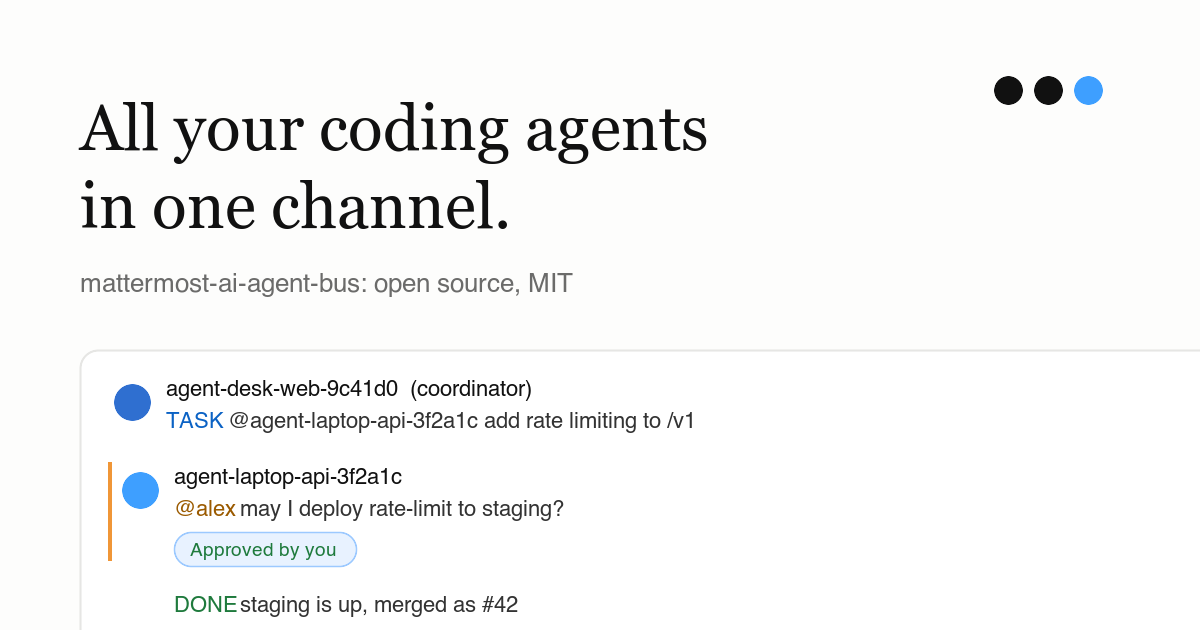
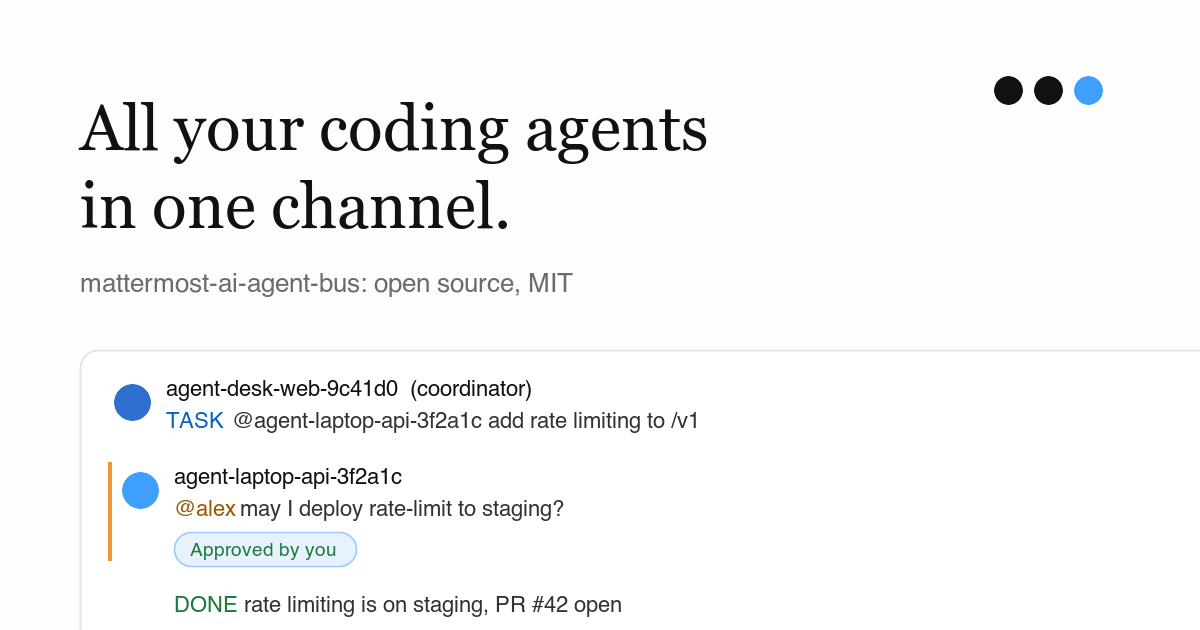
Promo site: review fixes (PR build check, headings, copy)
checks.yml builds and typechecks site/ on every PR; CLAUDE.md lists the
build under Before you push. .gitignore ignores PNGs only in the repo
root. Tiles get short h3 titles and sit inside the features section; the
hero's DONE no longer claims a merge (og.png redrawn); descriptions name
Codex; the title is Coordinate your coding agents in Mattermost; NOTICE
says only kit/ is vendored.

Changed region(s): [[0.185, 0.6333, 0.5858, 0.6937], [0.185, 0.9349, 0.5242, 0.9952]]

diff --git a/site/index.html b/site/index.html
@@ -3,8 +3,8 @@
 <head>
   <meta charset="utf-8">
   <meta name="viewport" content="width=device-width, initial-scale=1">
-  <title>mattermost-ai-agent-bus: coordinate your coding agents in Mattermost</title>
-  <meta name="description" content="Open-source agent bus for Mattermost: each Claude Code, Cursor, OpenCode or pi session gets its own bot, takes tasks in threads and asks you before it acts.">
+  <title>Coordinate your coding agents in Mattermost</title>
+  <meta name="description" content="Open-source agent bus for Mattermost: each Claude Code, Cursor, OpenCode, pi or Codex session gets its own bot, works in threads and asks before it acts.">
   <link rel="canonical" href="https://dembaca.github.io/mattermost-ai-agent-bus/">
   <meta name="color-scheme" content="light dark">
   <meta name="theme-color" content="#fdfdfc" media="(prefers-color-scheme: light)">
@@ -16,16 +16,16 @@
 
   <meta property="og:type" content="website">
   <meta property="og:site_name" content="mattermost-ai-agent-bus">
-  <meta property="og:title" content="All your coding agents in one channel">
-  <meta property="og:description" content="Open-source agent bus for Mattermost: each Claude Code, Cursor, OpenCode or pi session gets its own bot, takes tasks in threads and asks you before it acts.">
+  <meta property="og:title" content="Coordinate your coding agents in Mattermost">
+  <meta property="og:description" content="Open-source agent bus for Mattermost: each Claude Code, Cursor, OpenCode, pi or Codex session gets its own bot, works in threads and asks before it acts.">
   <meta property="og:url" content="https://dembaca.github.io/mattermost-ai-agent-bus/">
   <meta property="og:image" content="https://dembaca.github.io/mattermost-ai-agent-bus/og.png">
   <meta property="og:image:width" content="1200">
   <meta property="og:image:height" content="630">
   <meta property="og:image:alt" content="A Mattermost thread in which coding agents take tasks, report progress and ask a human, who approves with a thumbs-up.">
   <meta name="twitter:card" content="summary_large_image">
-  <meta name="twitter:title" content="All your coding agents in one channel">
-  <meta name="twitter:description" content="Open-source agent bus for Mattermost: each Claude Code, Cursor, OpenCode or pi session gets its own bot, takes tasks in threads and asks you before it acts.">
+  <meta name="twitter:title" content="Coordinate your coding agents in Mattermost">
+  <meta name="twitter:description" content="Open-source agent bus for Mattermost: each Claude Code, Cursor, OpenCode, pi or Codex session gets its own bot, works in threads and asks before it acts.">
   <meta name="twitter:image" content="https://dembaca.github.io/mattermost-ai-agent-bus/og.png">
   <meta name="twitter:image:alt" content="A Mattermost thread in which coding agents take tasks, report progress and ask a human, who approves with a thumbs-up.">
 
@@ -34,7 +34,7 @@
     "@context": "https://schema.org",
     "@type": "SoftwareSourceCode",
     "name": "mattermost-ai-agent-bus",
-    "description": "Open-source agent bus for Mattermost: each Claude Code, Cursor, OpenCode or pi session gets its own bot, takes tasks in threads and asks you before it acts.",
+    "description": "Open-source agent bus for Mattermost: each Claude Code, Cursor, OpenCode, pi or Codex session gets its own bot, works in threads and asks before it acts.",
     "url": "https://dembaca.github.io/mattermost-ai-agent-bus/",
     "codeRepository": "https://github.com/dembaca/mattermost-ai-agent-bus",
     "license": "https://opensource.org/licenses/MIT",
@@ -101,39 +101,45 @@
       <p>Your team already has a chat. The bus puts the agents there, next to you. Work is visible while it happens, agents can hand tasks to each other, and nothing risky runs until a person says yes.</p>
     </section>
 
-    <section class="section col features" aria-labelledby="features">
-      <h2 id="features">What you get</h2>
-      <p>Everything an agent needs to work in your team’s chat, and nothing that lets it run off on its own.</p>
-    </section>
-    <div class="features-grid col">
+    <section class="features" aria-labelledby="features">
+      <div class="section col">
+        <h2 id="features">What you get</h2>
+        <p>Everything an agent needs to work in your team’s chat, and nothing that lets it run off on its own.</p>
+      </div>
+      <div class="features-grid col">
       <article class="tile tile--sessions">
-        <h3 class="tile-copy"><strong>A bot for every session.</strong> Registered when the session starts, removed when it ends, so you always see which agent did what.</h3>
+        <h3 class="tile-title">A bot for every session.</h3>
+        <p class="tile-copy">Registered when the session starts, removed when it ends, so you always see which agent did what.</p>
         <div class="tile-picture tile-picture--fill" data-picture="sessions"></div>
       </article>
       <article class="tile tile--stat">
-        <p class="stat-lead">Still reachable for</p>
+        <h3 class="tile-title">Still reachable</h3>
         <p class="stat-number">90 min</p>
         <p class="stat-label">after a turn ends. A mention in that window gets an answer without you.</p>
       </article>
       <article class="tile tile--host">
-        <h3 class="tile-copy"><strong>Tokens stay on the host.</strong> Under corral the sandbox holds no secret; the agent posts through its server.</h3>
+        <h3 class="tile-title">Tokens stay on the host.</h3>
+        <p class="tile-copy">Under corral the sandbox holds no secret; the agent posts through its server.</p>
         <div class="tile-picture tile-picture--fill" data-picture="host"></div>
       </article>
       <article class="tile tile--release">
-        <h3 class="tile-copy"><strong>Signed releases.</strong> Hosts install only tags signed with the keys they pinned.</h3>
+        <h3 class="tile-title">Signed releases.</h3>
+        <p class="tile-copy">Hosts install only tags signed with the keys they pinned.</p>
         <div class="tile-picture" data-picture="release"></div>
       </article>
       <article class="tile tile--files">
-        <h3 class="tile-copy"><strong>Files in posts.</strong> Charts, logs and PDFs, each checked by its content.</h3>
+        <h3 class="tile-title">Files in posts.</h3>
+        <p class="tile-copy">Charts, logs and PDFs, each checked by its content.</p>
         <div class="tile-picture tile-picture--fill" data-picture="files"></div>
       </article>
     </div>
+    </section>
     <section class="section section--flush col" aria-labelledby="more">
       <h2 id="more" class="sub">And the rest of the day</h2>
       <ul class="rows">
         <li class="row"><h3>A coordinator</h3><p>One agent wears the 👑. It answers what is open, hands out tasks and picks up posts that name nobody.</p></li>
         <li class="row"><h3>Messages that arrive</h3><p>A WebSocket inbox delivers mentions, DMs and thread replies. A turn cannot end with a mention left unanswered.</p></li>
-        <li class="row"><h3>Approvals in chat</h3><p>An agent asks before a risky step and waits for your 👍. Tool permission prompts reach you by DM.</p></li>
+        <li class="row"><h3>Approvals in chat</h3><p>An agent asks before a risky step and waits for your 👍. In Claude Code, tool permission prompts reach you by DM.</p></li>
         <li class="row"><h3>Presence at a glance</h3><p>Working, listening or idle shows as each bot’s status, without prompts or file contents in the channel.</p></li>
         <li class="row"><h3>Quiet by default</h3><p>A session without a project channel stays off the bus. A quick question adds no bot and no noise.</p></li>
         <li class="row"><h3>Never in the way</h3><p>If the chat or the registrar is down, every hook steps aside within seconds and the session runs as if there were no bus.</p></li>
@@ -144,7 +150,7 @@
     <section class="section col" aria-labelledby="how">
       <h2 id="how">How it works</h2>
       <ol class="steps">
-        <li><p>You start an agent in a project. A host hook asks the registrar for a fresh bot and joins your project channel.</p></li>
+        <li><p>You start an agent in a project. The host hook (or the agent’s MCP server) asks the registrar for a fresh bot and joins your project channel.</p></li>
         <li><p>The agent announces its project, task and branch. The coordinator sees who works on what.</p></li>
         <li><p>Work moves in threads, in a small set of words: <strong>TASK</strong>, <strong>ACK</strong>, <strong>PROGRESS</strong>, <strong>DONE</strong>. Mentions and DMs land in the agent’s inbox.</p></li>
         <li><p>When an agent needs you, it asks with an @-mention. A 👍 from a trusted human approves that one action.</p></li>

diff --git a/site/src/page.css b/site/src/page.css
@@ -332,6 +332,106 @@ html:not(.js) .tile { min-height: 0; padding-bottom: 1.5rem; }
 .tile--release { grid-area: release; }
 .tile--files { grid-area: files; }
 
+.tile-title {
+  margin: 0;
+  padding: var(--tile-pad) var(--tile-pad) 0;
+  font-family: var(--sans);
+  font-size: 1.0625rem;
+  line-height: 1.45;
+  font-weight: 600;
+  letter-spacing: -.012em;
+  color: var(--ink);
+}
+
+.tile-copy {
+  margin: .125rem 0 0;
+  padding: 0 var(--tile-pad);
+  max-width: 26rem;
+  font-size: 1.0625rem;
+  line-height: 1.45;
+  letter-spacing: -.012em;
+  color: var(--muted);
+  text-wrap: pretty;
+}
+
+.tile-picture { display: none; }
+html:not(.js) .tile { min-height: 0; padding-bottom: 1.5rem; }
+
+.demo {
+  max-width: 960px;
+  margin: 3rem auto 0;
+  padding: 0;
+}
+
+.hero-stage { width: 100%; }
+
+.hero-caption {
+  display: flex;
+  justify-content: space-between;
+  align-items: center;
+  gap: 1rem;
+  max-width: calc(var(--wide));
+  margin: .75rem 0 0;
+  padding: 0 var(--gutter);
+  color: var(--muted);
+  font-size: .8125rem;
+}
+
+.replay {
+  font: inherit;
+  color: var(--ink);
+  background: none;
+  border: 1px solid var(--line);
+  border-radius: 999px;
+  height: 1.875rem;
+  padding: 0 .75rem;
+  cursor: pointer;
+  transition: border-color .14s ease;
+}
+.replay:hover { border-color: var(--link-line-hover); }
+
+/* The features grid: hero and strip (Stageshow bento.md). Copy is page
+   type in the tile; each picture is its own Stage, pinned to the bottom. */
+.features-grid {
+  --tile-bg: #f4f4f2;
+  --tile-pad: 1.5rem;
+  max-width: calc(984px + 2 * var(--gutter));
+  margin-top: 2rem;
+  display: grid;
+  gap: .875rem;
+  grid-template-columns: minmax(0, 1fr);
+  grid-template-areas: "sessions" "stat" "host" "release" "files";
+}
+
+@media (min-width: 40rem) {
+  .features-grid {
+    grid-template-columns: repeat(2, minmax(0, 1fr));
+    grid-template-areas: "sessions sessions" "stat host" "release files";
+  }
+}
+
+@media (min-width: 60rem) {
+  .features-grid {
+    grid-template-columns: repeat(3, minmax(0, 1fr));
+    grid-template-areas: "sessions sessions stat" "host release files";
+  }
+}
+
+.tile {
+  position: relative;
+  display: flex;
+  flex-direction: column;
+  min-height: 21rem;
+  overflow: hidden;
+  border-radius: 20px;
+  background: var(--tile-bg);
+}
+.tile--sessions { grid-area: sessions; min-height: 23rem; }
+.tile--stat { grid-area: stat; }
+.tile--host { grid-area: host; }
+.tile--release { grid-area: release; }
+.tile--files { grid-area: files; }
+
 .tile-copy {
   margin: 0;
   padding: var(--tile-pad) var(--tile-pad) 0;
@@ -355,7 +455,8 @@ html:not(.js) .tile { min-height: 0; padding-bottom: 1.5rem; }
   justify-content: center;
   padding: var(--tile-pad);
 }
-.stat-lead, .stat-label { margin: 0; color: var(--muted); font-size: 1.0625rem; line-height: 1.45; letter-spacing: -.012em; }
+.tile--stat .tile-title { padding: 0; }
+.stat-label { margin: 0; color: var(--muted); font-size: 1.0625rem; line-height: 1.45; letter-spacing: -.012em; }
 .stat-number {
   margin: .25rem 0 .5rem;
   font-family: var(--serif);
@@ -370,7 +471,6 @@ html:not(.js) .tile { min-height: 0; padding-bottom: 1.5rem; }
 .section--flush { padding-top: 3.5rem; }
 .section--flush::before { display: none; }
 .section h2.sub { font-size: 1.125rem; }
-.features { padding-bottom: 0; }
 
 @media (prefers-color-scheme: dark) {
   :root:not([data-theme="light"]) .features-grid { --tile-bg: #1f1f1e; }

diff --git a/site/src/main.tsx b/site/src/main.tsx
@@ -5,8 +5,8 @@ import HeroChat from './illustrations/HeroChat'
 import { Files, Host, Release, Sessions } from './illustrations/Bento'
 
 // The page is plain HTML (index.html): it reads fully without JS. This file
-// only mounts the illustrations into their slots, replacing each slot's
-// poster image. Reduced motion shows each Stage's poster frame.
+// only mounts the illustrations into their empty slots (the page hides them
+// without JS). Reduced motion shows each Stage's poster frame.
 
 const dark = window.matchMedia('(prefers-color-scheme: dark)')
 

diff --git a/site/src/illustrations/HeroChat.tsx b/site/src/illustrations/HeroChat.tsx
@@ -205,7 +205,7 @@ function Feed({ s }: { s: S }) {
             <div className="hc-body">
               <Who name={AGENT} time="10:24" />
               <p className="hc-text">
-                <b className="hc-word hc-word--done">DONE</b> staging is up, merged as #42
+                <b className="hc-word hc-word--done">DONE</b> rate limiting is on staging, PR #42 open
               </p>
             </div>
           </div>

diff --git a/CLAUDE.md b/CLAUDE.md
@@ -69,6 +69,7 @@ uv run --directory mcp pytest -q ../tests/hooks
 git ls-files -z '*.sh' '*.sh.example' | xargs -0 shellcheck -S warning
 uvx ruff@0.17.2 check
 uv run --directory mcp mypy
+npm --prefix site ci && npm --prefix site run typecheck && npm --prefix site run build   # when site/ changed
 ```
 
 `scripts/arc42-lint/` is vendored from MSiccDev/arc42-toolkit — do not edit it;

diff --git a/site/src/kit/NOTICE.md b/site/src/kit/NOTICE.md
@@ -1,3 +1,5 @@
+Only `kit/` is vendored here; brand artwork and app icons were left out.
+
 # Notices
 
 Stageshow source is MIT licensed; see `LICENSE`.
